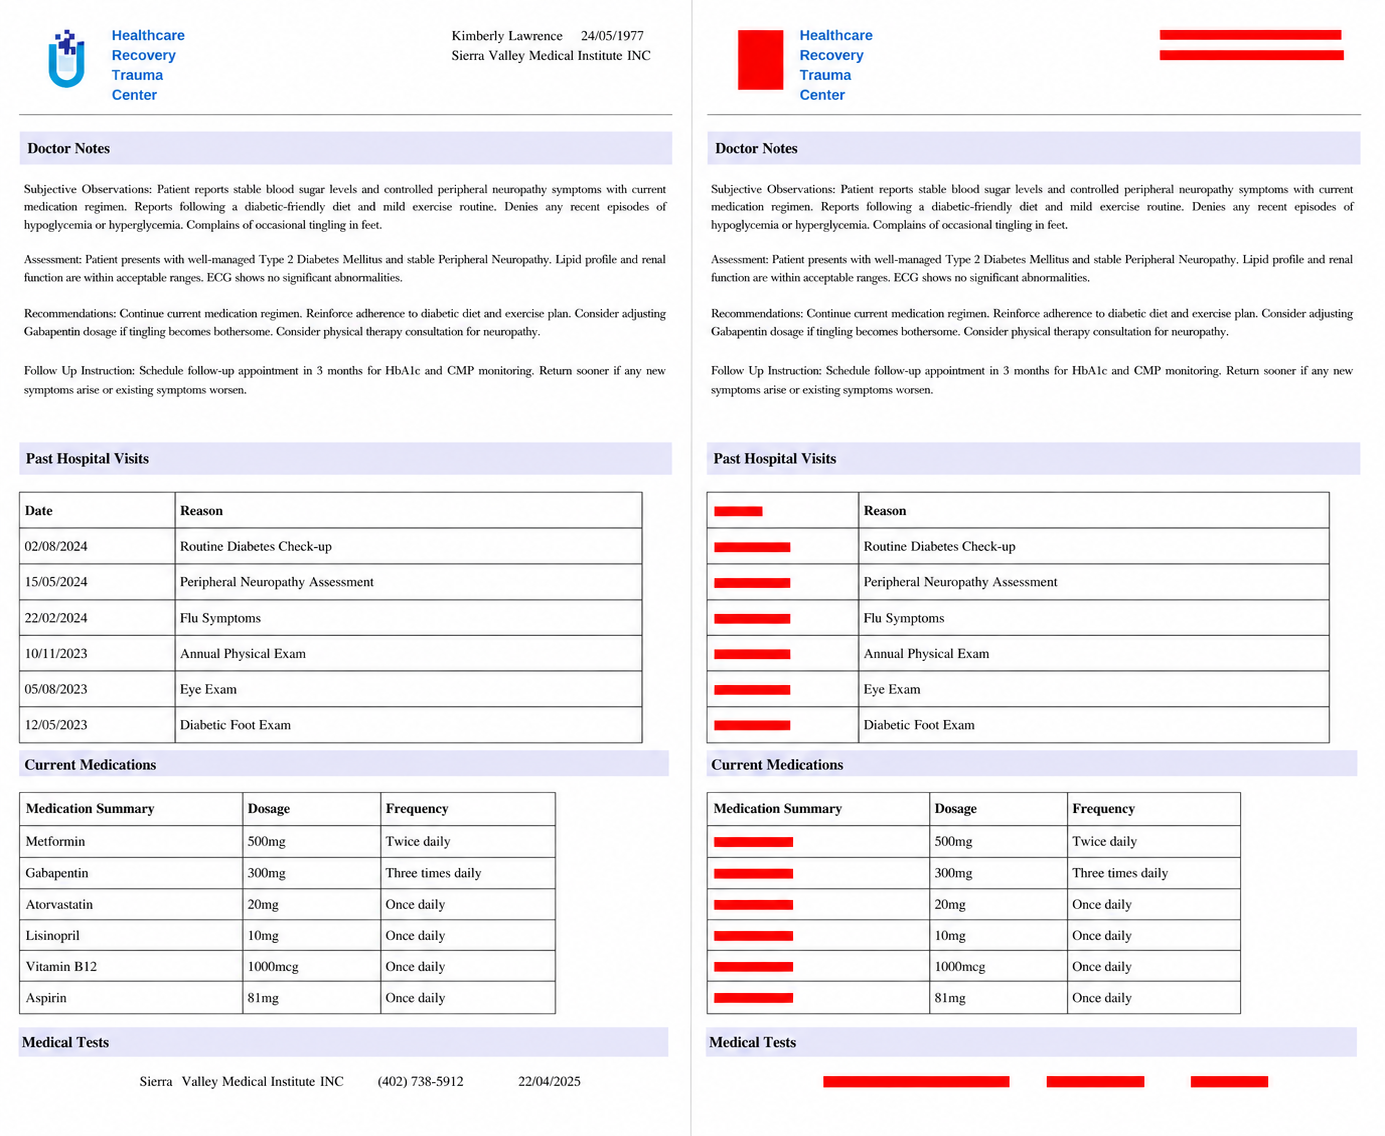
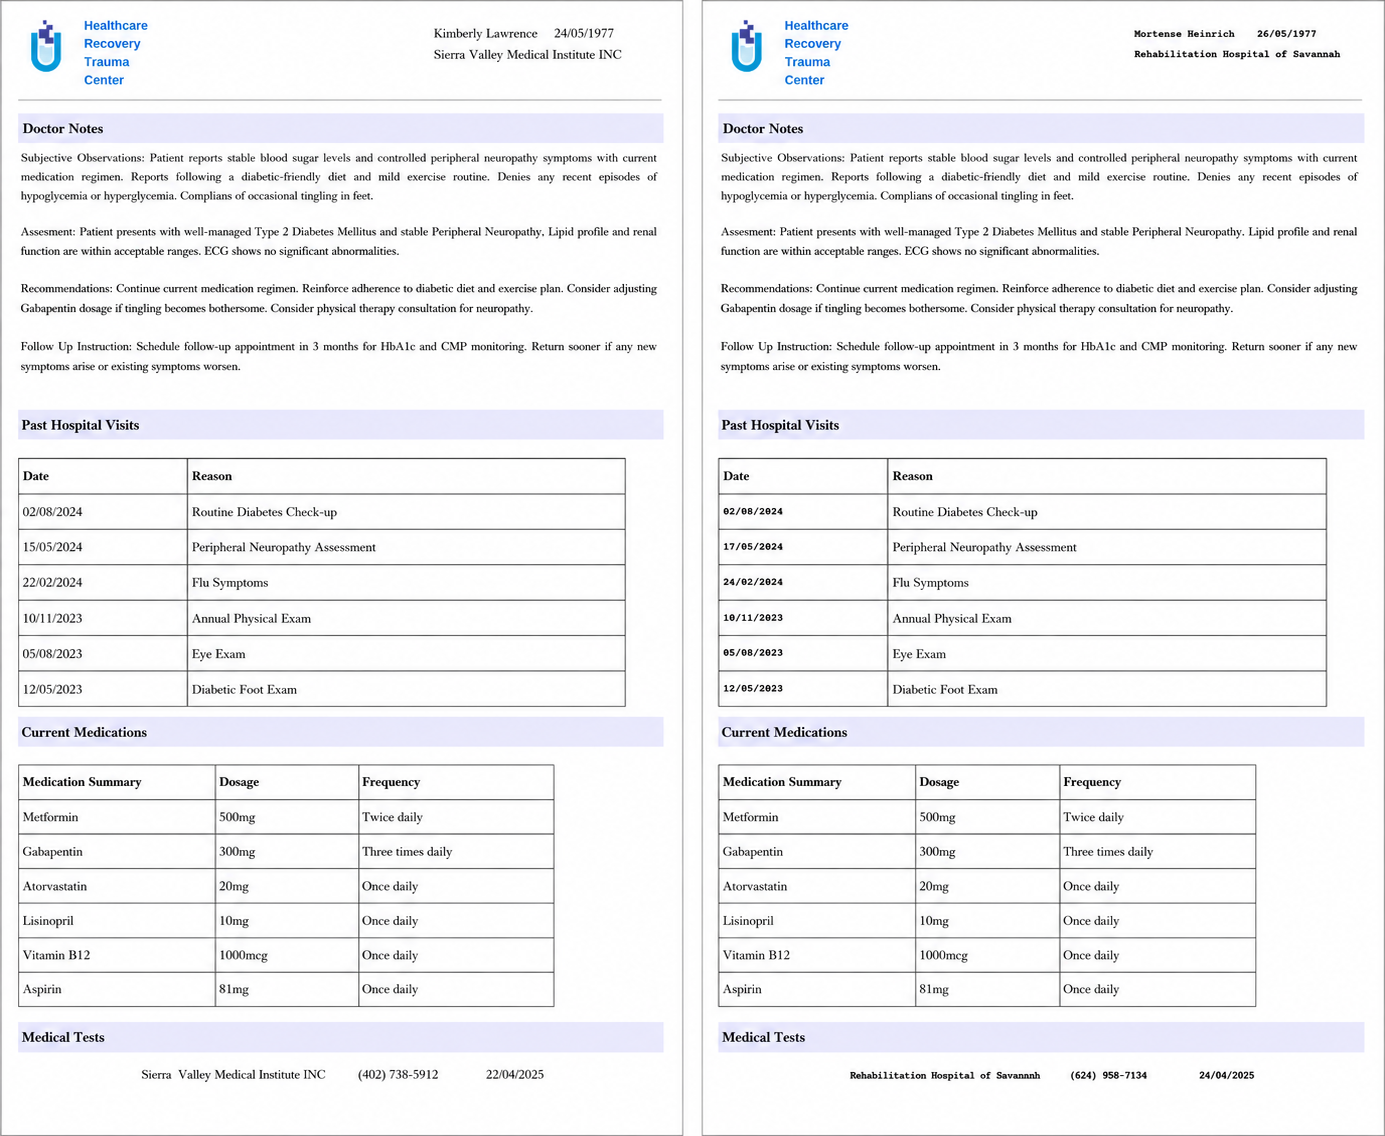
Added Image Examples

diff --git a/jupyter/deid-and-obfuscation/README.md b/jupyter/deid-and-obfuscation/README.md
@@ -40,7 +40,11 @@ Visual NLP supports two distinct PHI removal strategies that can be used separat
 
 **De-identification (Redaction)** blanks out detected PHI by drawing filled rectangles over the sensitive region in the image. The original text is visually removed and the structural integrity of the document is preserved.
 
-**Obfuscation (Replacement)** substitutes detected PHI with realistic but entirely synthetic values. A name is replaced with a different fake name, a date is shifted to a plausible alternative, a location is swapped for a fictional one. This mode is preferred for datasets that need to retain statistical or linguistic realism for downstream ML tasks.
+![DeIdentification Example](../data/readme/deid-and-obfuscation/DeIdentification_Example.png)
+
+**Obfuscation (Replacement)** substitutes detected PHI with realistic but entirely synthetic values. A name is replaced with a different synthetic name, a date is shifted to a plausible alternative, a location is swapped for a fictional one. This mode is preferred for datasets that need to retain statistical or linguistic realism for downstream ML tasks.
+
+![Obfuscation Example](../data/readme/deid-and-obfuscation/Obfuscation_Example.png)
 
 ## Supported Document Types
 
